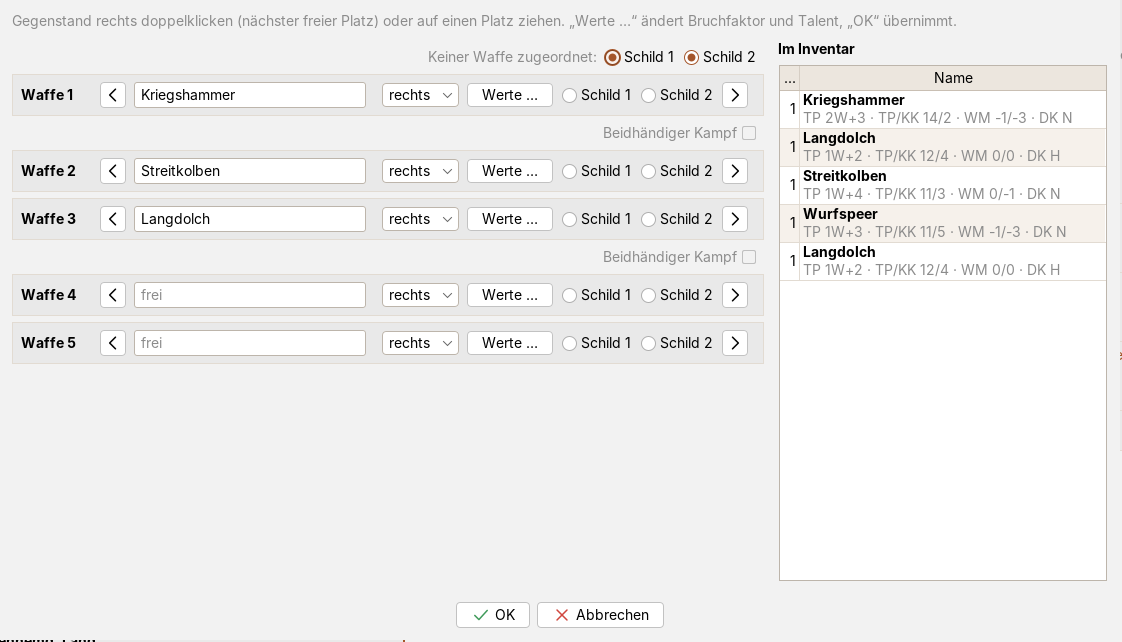
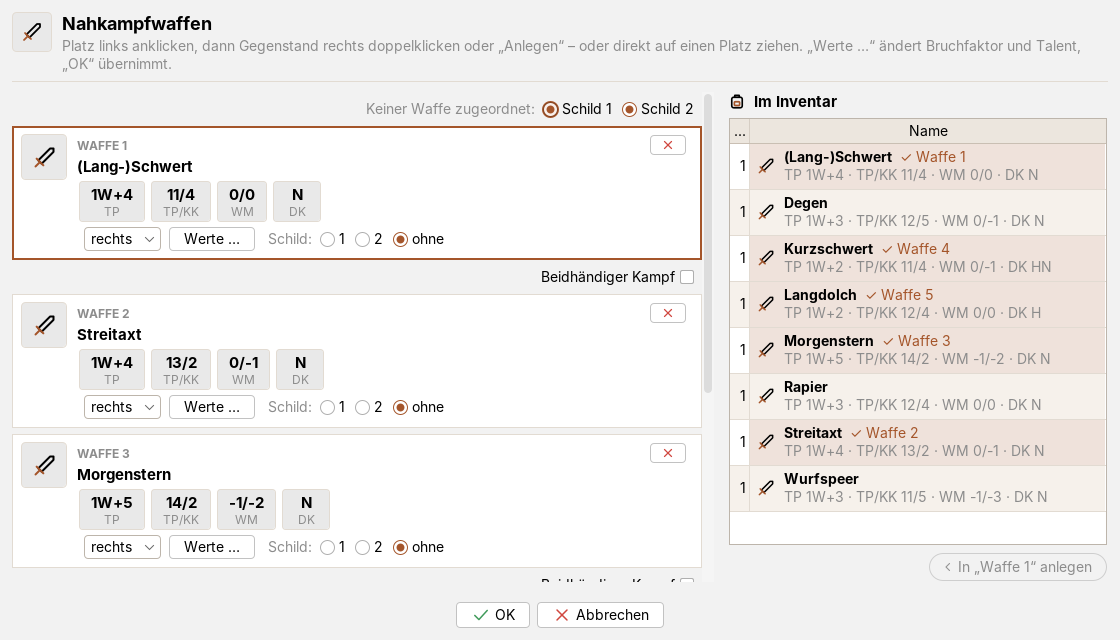
README: neue Bilder für Ausrüstung, Texte gekürzt
- Bilder „Ausrüstung“ und „Nahkampfwaffen bearbeiten“ im neuen Design (1.29.0)
- Beschreibungen je Reiter auf das Wesentliche gekürzt

Claude-Session: https://claude.ai/code/session_01XFsH5MfEcgtwerHLdGNyvK

diff --git a/README.md b/README.md
@@ -14,13 +14,8 @@ zurückschalten.
 ### Oberfläche
 
 - **Drei Designs:** *Modern hell*, *Modern dunkel* und *Original* – für die ganze Software samt Dialogen.
-- **Tabellen:** Zebra-Streifen, sortierbar per Spaltenkopf; *+1* und *SE* funktionieren auch sortiert.
-- **Suche:** über Talenten und Zaubern, bei Talenten zusätzlich Schalter für die Talentgruppen.
-- **Eigene Symbole** für hell und dunkel.
-- **Jede Fenstergröße:** schon in der Startgröße wird nichts abgeschnitten.
-
-Die neu gestalteten Reiter gibt es nur in den modernen Designs; im *Original* bleibt alles wie bisher. Änderungen
-am Helden laufen immer über die Bedienelemente der Helden-Software.
+- **Tabellen** mit Zebra-Streifen, sortierbar; **Suche** bei Talenten und Zaubern; **eigene Symbole**.
+- Neu gestaltete Reiter nur in den modernen Designs; Änderungen laufen immer über die Helden-Software.
 
 | Modern dunkel | Neue Symbole |
 |---|---|
@@ -28,42 +23,28 @@ am Helden laufen immer über die Bedienelemente der Helden-Software.
 
 ### Helden erschaffen
 
-Der Erschaffungs-Assistent in neuem Rahmen: links die Schritte mit Nummer, Häkchen und Warnung, in der Mitte der
-Schritt mit kurzer Erklärung, rechts eine Info-Spalte mit dem bisherigen Helden, den Punkten (GP, AP, Nachteile …)
-als Balken, Hinweisen der Regelprüfung und dem, was die gewählte Rasse, Kultur oder Profession mitbringt.
-Regelbasis, Einstellungen und Aussehen sind als Karten aufgebaut, Rassen, Kulturen und Professionen zeigen ihre
-GP-Kosten als Plakette. Die Tabellen (Eigenschaften, Vor-/Nachteile, Sonderfertigkeiten, Talente, Zauber, Kosten)
-sind per Spaltenkopf sortierbar, z. B. nach Kosten oder Wert; Vor-/Nachteile, Sonderfertigkeiten, Talente und Zauber
-haben eine Suche, Talente zusätzlich Schalter je Kategorie, Unterreiter zeigen die Trefferzahl.
-Bei den Vor- und Nachteilen stehen die gewählten getrennt nach Vorteilen und Nachteilen nebeneinander, und
-bereits gewählte werden auch nach dem Wechsel auf „Auch ungeeignete Vor- und Nachteile“ nicht erneut angeboten.
-Gerechnet und geprüft wird weiter von der Helden-Software.
-„Einen Helden eingeben“ und „Einen Helden editieren“ haben denselben Rahmen (Schrittleiste, Kopf, Info-Spalte,
-Karten für Geschlecht/Setting und Person) und eine Suche bei Rasse, Kultur, Profession und Talenten.
+Assistent in neuem Rahmen: Schritte links, Erklärung in der Mitte, rechts der bisherige Held mit GP/AP als Balken
+und Hinweisen der Regelprüfung. Sortierbare Tabellen mit Suche, Vor- und Nachteile getrennt nebeneinander.
+„Einen Helden eingeben/editieren“ im selben Rahmen.
 
 ![Erschaffung: Schritt Kultur mit Info-Spalte](docs/bilder/erschaffung.png)
 
 ### Allgemein
 
-Links der Steckbrief mit allen Angaben (*Angaben bearbeiten …*), rechts die Abenteuerpunkte mit Balken,
-Herkunfts-Tooltip und *AP hinzufügen …*. Darunter Vorteile, Nachteile und Sonderfertigkeiten in drei Spalten mit
-Kurzbeschreibung und Suche.
+Steckbrief, Abenteuerpunkte mit Herkunft und *AP hinzufügen …*, Vor-/Nachteile und SF mit Kurzbeschreibung.
 
 ![Reiter „Allgemein“ im modernen Design](docs/bilder/allgemein.png)
 
 ### Eigenschaften
 
-Eigenschaften mit Kosten und wofür sie gebraucht werden; LE, AU, AE und MR mit Rechenweg
-(„(KO 12 + KO 12 + KK 11) / 2 = 17,5 → 18 · Modifikator +10“), verlorene AE mit *Zurückkaufen*;
-Kampf-Basiswerte, Sozialstatus und Gilde.
+Eigenschaften mit Kosten und Verwendung, LE/AU/AE/MR mit Rechenweg, Kampf-Basiswerte, Sozialstatus und Gilde.
 
 ![Reiter „Eigenschaften“ im modernen Design](docs/bilder/eigenschaften.png)
 
 ### Inventar, Hinzufügen und Geldbörse
 
-- **Inventar:** Gewicht und Geld auf einen Blick, Suche, Filter und Gruppierung nach Art.
-- **Gegenstand hinzufügen:** Suche links, Werte rechts; *Kaufen* bezahlt direkt aus der Geldbörse.
-- **Geldbörse:** Betrag eingeben, *Einnehmen* oder *Ausgeben* – gewechselt wird automatisch.
+Gewicht und Geld auf einen Blick, Suche und Gruppierung; Gegenstände mit Werten hinzufügen und direkt kaufen;
+Geldbörse zum Einnehmen und Ausgeben mit automatischem Wechseln.
 
 ![Inventar im modernen Design](docs/bilder/inventar.png)
 
@@ -73,8 +54,8 @@ Kampf-Basiswerte, Sozialstatus und Gilde.
 
 ### Ausrüstung
 
-Die drei Sets als Karten mit RS je Zone, Summen und angelegten Gegenständen; Ablegen mit ✕. Beim *Bearbeiten*
-per Doppelklick oder Ziehen anlegen.
+Je Set Figur mit RS je Zone, Belastung und Kampfwerte; Rüstung nach Zonen, Waffen als Kacheln. Hand, Schild,
+beidhändig und Jagdwaffe per Schalter, „Werte …“ und Ablegen direkt; *Bearbeiten*: Platz wählen und anlegen.
 
 | Ausrüstung | Nahkampfwaffen bearbeiten |
 |---|---|
@@ -82,17 +63,14 @@ per Doppelklick oder Ziehen anlegen.
 
 ### Kampfwerte
 
-Basiswerte mit Formel, Nahkampf mit AT/PA-Verteilung als Balken und den Verteilungsregeln (gesperrtes „+“ mit
-Begründung, **↺** gibt die TaP eines Talents wieder frei), Fernkampf mit Rechenweg.
+Basiswerte mit Formel, AT/PA-Verteilung als Balken samt Regeln, Fernkampf mit Rechenweg.
 
 ![Reiter „Kampfwerte“ im modernen Design](docs/bilder/kampfwerte.png)
 
 ### Tooltips und eigene Notizen
 
-- **Tooltips** zu Talenten, SF, Vor-/Nachteilen, Zaubern, Eigenschaften und Basiswerten.
-- **Herkunft** eines Werts (jede Steigerung mit Datum, Lernmethode und AP) und der Abenteuerpunkte.
-- **Eigene Notizen** per Doppelklick oder `Strg+Umschalt+T` – auch auf dem Heldenbogen.
-- *Erweiterte Tooltips anzeigen* schaltet alle Tooltips und Hinweise des Plugins ab.
+Tooltips zu Talenten, SF, Vor-/Nachteilen, Zaubern und Werten, mit Herkunft jeder Steigerung; eigene Notizen per
+Doppelklick oder `Strg+Umschalt+T` (auch auf dem Heldenbogen).
 
 | Herkunft eines Talentwerts | Herkunft der Abenteuerpunkte |
 |---|---|
@@ -100,27 +78,21 @@ Begründung, **↺** gibt die TaP eines Talents wieder frei), Fernkampf mit Rech
 
 ### Verlauf
 
-Alle Steigerungen und Sonderfertigkeiten mit Datum, Lernmethode und AP. *Rückgängig machen …* nimmt die jeweils
-letzte Änderung zurück und erstattet die AP (gerechnet von der Helden-Software, dauerhaft erst nach dem Speichern).
+Alle Steigerungen mit Datum, Lernmethode und AP; *Rückgängig machen …* nimmt die letzte Änderung zurück.
 
 ![Reiter „Verlauf“ mit Lernmethode und Spezieller Erfahrung](docs/bilder/verlauf.png)
 
 ### Kompaktansicht
 
-Der ganze Held auf einen Blick: Eigenschaften als Kacheln, Talente mit Balken, SF, Vor-/Nachteile, Kampf, Zauber
-und Inventar.
+Der ganze Held auf einen Blick.
 
 ![Reiter „Kompaktansicht“ im dunklen Design](docs/bilder/kompaktansicht-dunkel.png)
 
 ### Moderner Heldenbogen
 
-Neu gestalteter A4-Bogen in der Druckvorschau, mit Drucken und PDF: Werte, Kampf mit Trefferzonen, Talente nach
-Gruppen, Magie-Seite, Inventar und Notizen mit Portrait. *Optionen ▾* blendet Teile ein und aus; *Original*
-zeigt die bisherige Druckvorschau. Das Portrait-Feld passt sich dem Bild an oder bekommt ein festes Format
-(3:4, 2:3, 4:5, 9:16, 1:1, 4:3, 3:2, 16:9) – unter *Optionen ▾ → Portrait-Format*, je Held gespeichert.
-Über *Optionen ▾ → Charakterbeschreibung öffnen …* lässt sich eine Textdatei (TXT, MD) hinterlegen, über
-*Charakterbeschreibung schreiben/bearbeiten …* der Text direkt eingeben oder ändern (je Held gespeichert, auf Wunsch auch als Datei); er
-steht dann im Feld „Charakterbeschreibung“ (längere Texte gehen auf Linien darunter weiter).
+A4-Bogen in der Druckvorschau (Drucken und PDF): Werte, Kampf mit Trefferzonen, Talente, Magie, Inventar und
+Notizen mit Portrait. *Optionen ▾* blendet Teile ein und aus, legt das Portrait-Format fest und nimmt eine
+Charakterbeschreibung auf; *Original* zeigt die bisherige Druckvorschau.
 
 ![Druckvorschau mit dem modernen Heldenbogen](docs/bilder/druckvorschau.png)
 
@@ -142,8 +114,7 @@ steht dann im Feld „Charakterbeschreibung“ (längere Texte gehen auf Linien 
 
 Deinstallation: JAR löschen – die Helden-Software sieht danach aus wie vorher.
 
-**Updates:** Mit *Einstellungen → Updater → Automatisch Updaten* installiert das Plugin neue Releases selbst
-(geprüft per SHA-256, alte Version bleibt in `helden/plugins/modern-ui/update/`); von Hand über
+**Updates:** automatisch über *Einstellungen → Updater → Automatisch Updaten* oder von Hand über
 *Erweiterungen → Modern-UI → Nach Updates suchen …*.
 
 ## Bedienung
@@ -153,7 +124,7 @@ Deinstallation: JAR löschen – die Helden-Software sieht danach aus wie vorher
 | Design, Tooltips an/aus | *Erweiterungen → Modern-UI* |
 | AP hinzufügen | *Allgemein* → *AP hinzufügen …* oder „+350“ ins Feld *AP gesamt* |
 | Eigene Notiz | Doppelklick auf einen Eintrag oder `Strg+Umschalt+T` |
-| Ausrüstung anlegen / ablegen | *Ausrüstung* → *Bearbeiten* → Doppelklick oder Ziehen / rotes „✕“ |
+| Ausrüstung anlegen / ablegen | *Ausrüstung* → *Bearbeiten* → Platz wählen, „Anlegen“ / rotes „✕“ |
 | Steigerung rückgängig | *Verlauf* → Eintrag wählen → *Rückgängig machen …* |
 
 Eigene Notizen liegen nur auf deinem Rechner in `helden/plugins/modern-ui/eigene-tooltips.tsv` – Auszüge aus
@@ -162,9 +133,7 @@ Regelbüchern bitte nicht weitergeben.
 ## Selbst bauen
 
 JDK 8 oder neuer: `./build.sh` erzeugt `build/ModernUI-Plugin.jar` (FlatLaf von Maven Central oder aus
-`FLATLAF_JAR`; die Helden-Software wird nicht benötigt). GitHub Actions hängt das JAR an veröffentlichte Releases.
-Der Quellcode liegt in `src/main/java/de/modernhelden/`: je Reiter eine `…Layout.java`, dazu `Theme`, `TooltipHook`,
-`Rueckgaengig`, `HeroPanel` (Kompaktansicht und Verlauf) sowie `print/` (Heldenbogen) und `update/`.
+`FLATLAF_JAR`). Quellcode in `src/main/java/de/modernhelden/`.
 
 ## Hinweise
 
